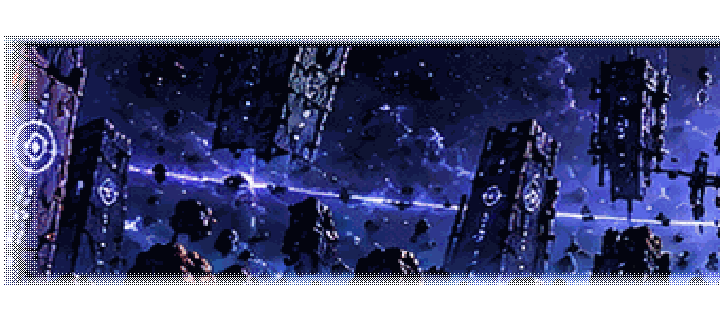
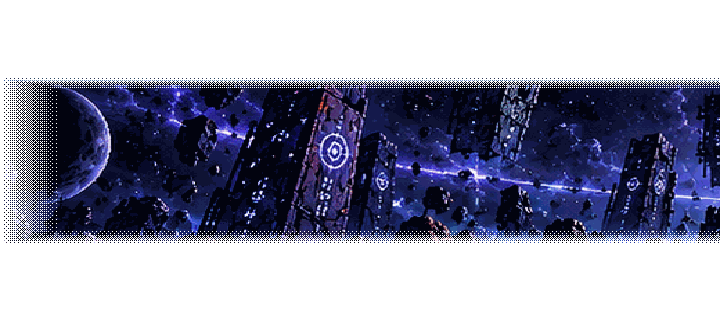
Affiner le cadrage des six panoramas fidèles aux maquettes
Afficher une portion plus large de chaque illustration, sans zoom excessif. Préserver le défilement et les couches graphiques existantes.

diff --git a/js/scene.js b/js/scene.js
@@ -267,7 +267,7 @@
   const dossierDecor = scriptDecor && scriptDecor.src
     ? new URL('../assets/', scriptDecor.src).href : 'assets/';
   const decorCache = {};
-  const cadreDepart = { terra: 240, ice: 100, violet: 780, mars: 65, gas: 670, dark: 655 };
+  const cadreDepart = { terra: 640, ice: 300, violet: 965, mars: 270, gas: 940, dark: 880 };
 
   function chargerDecor(type) {
     if (decorCache[type]) return decorCache[type];
